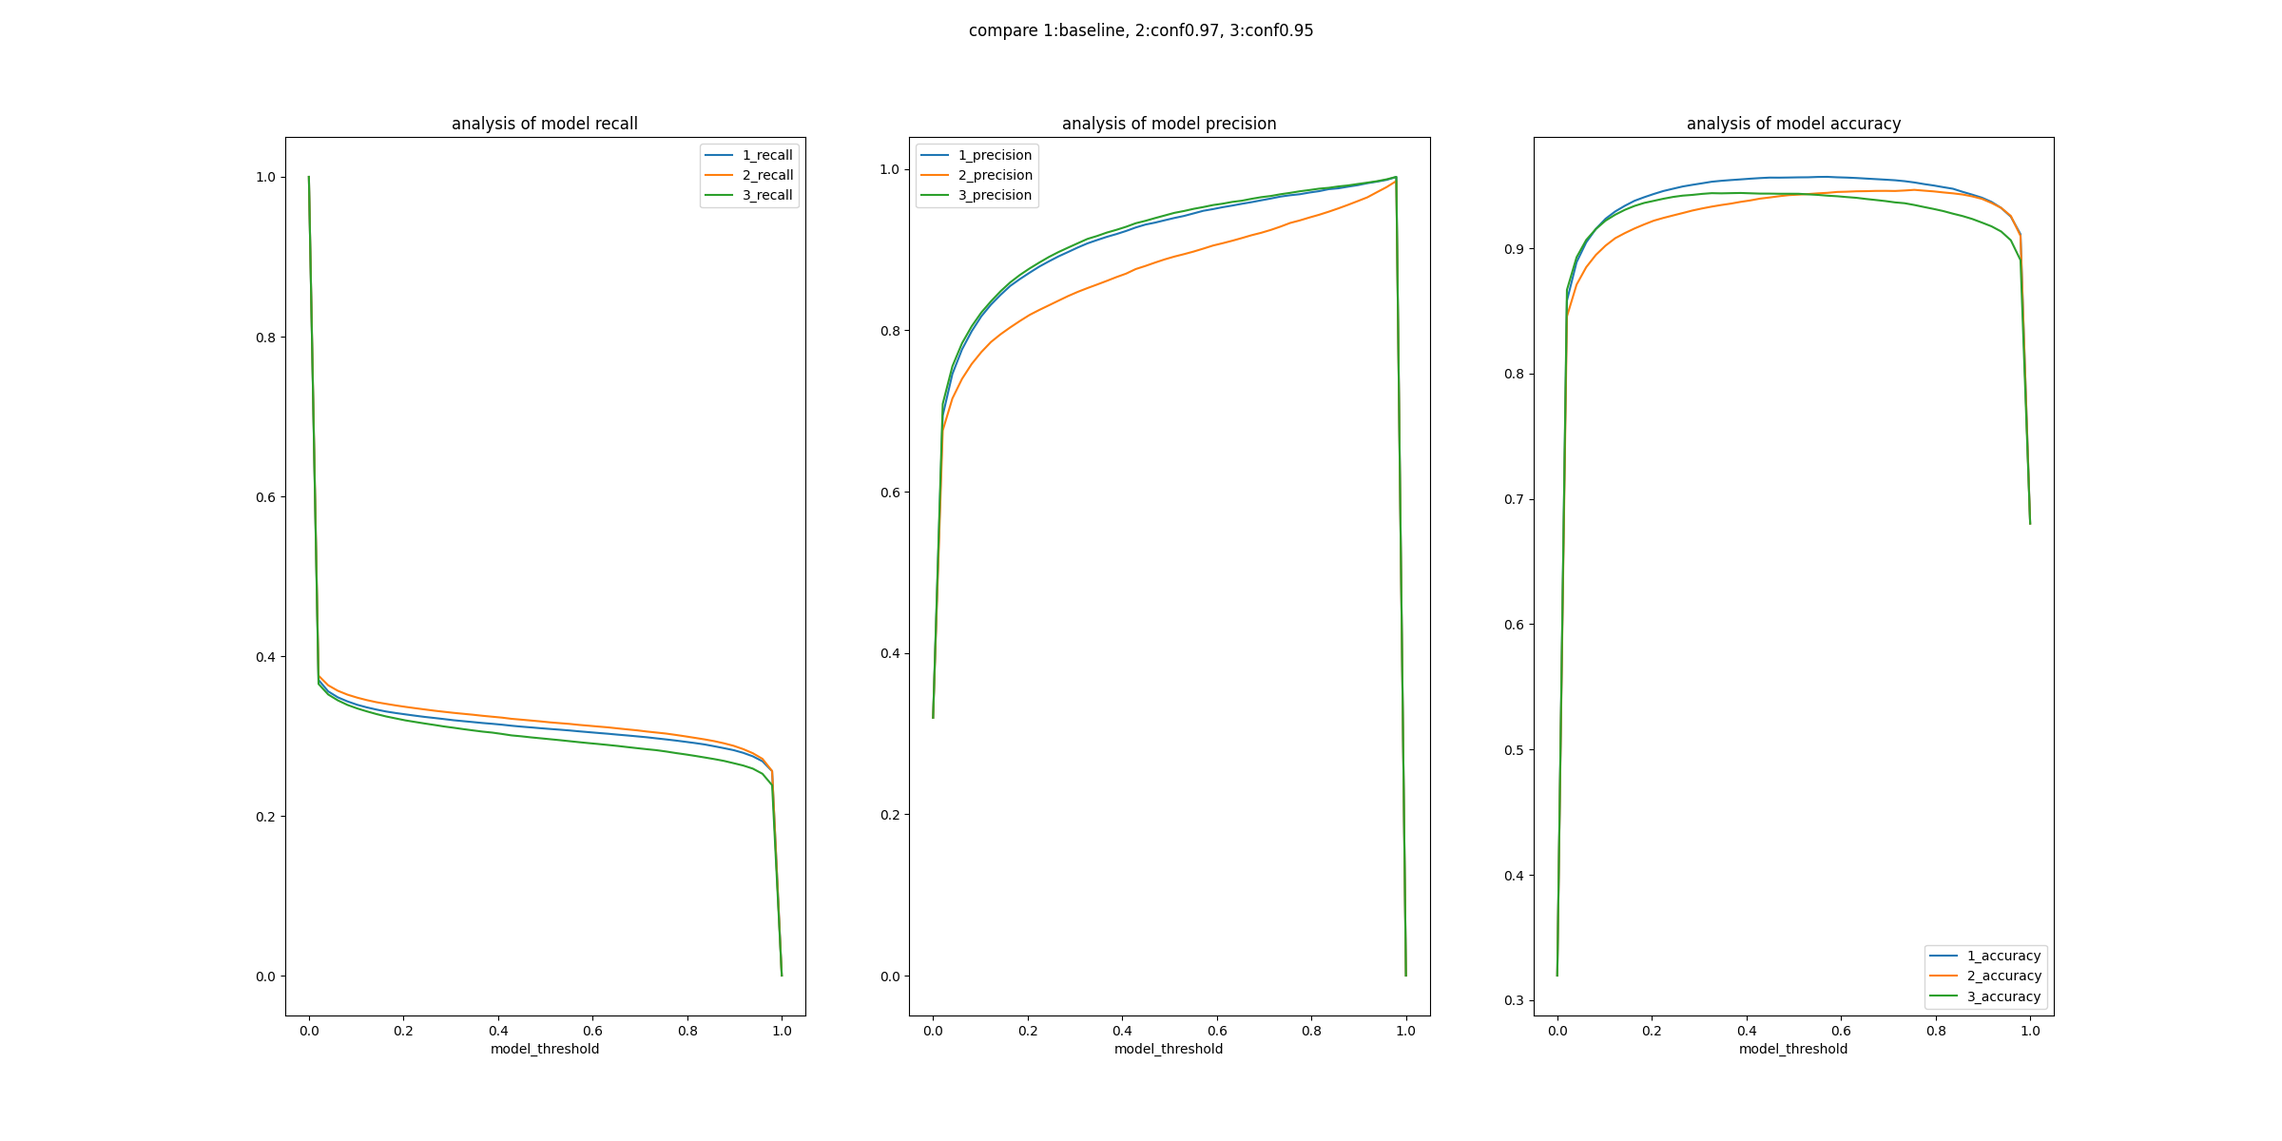
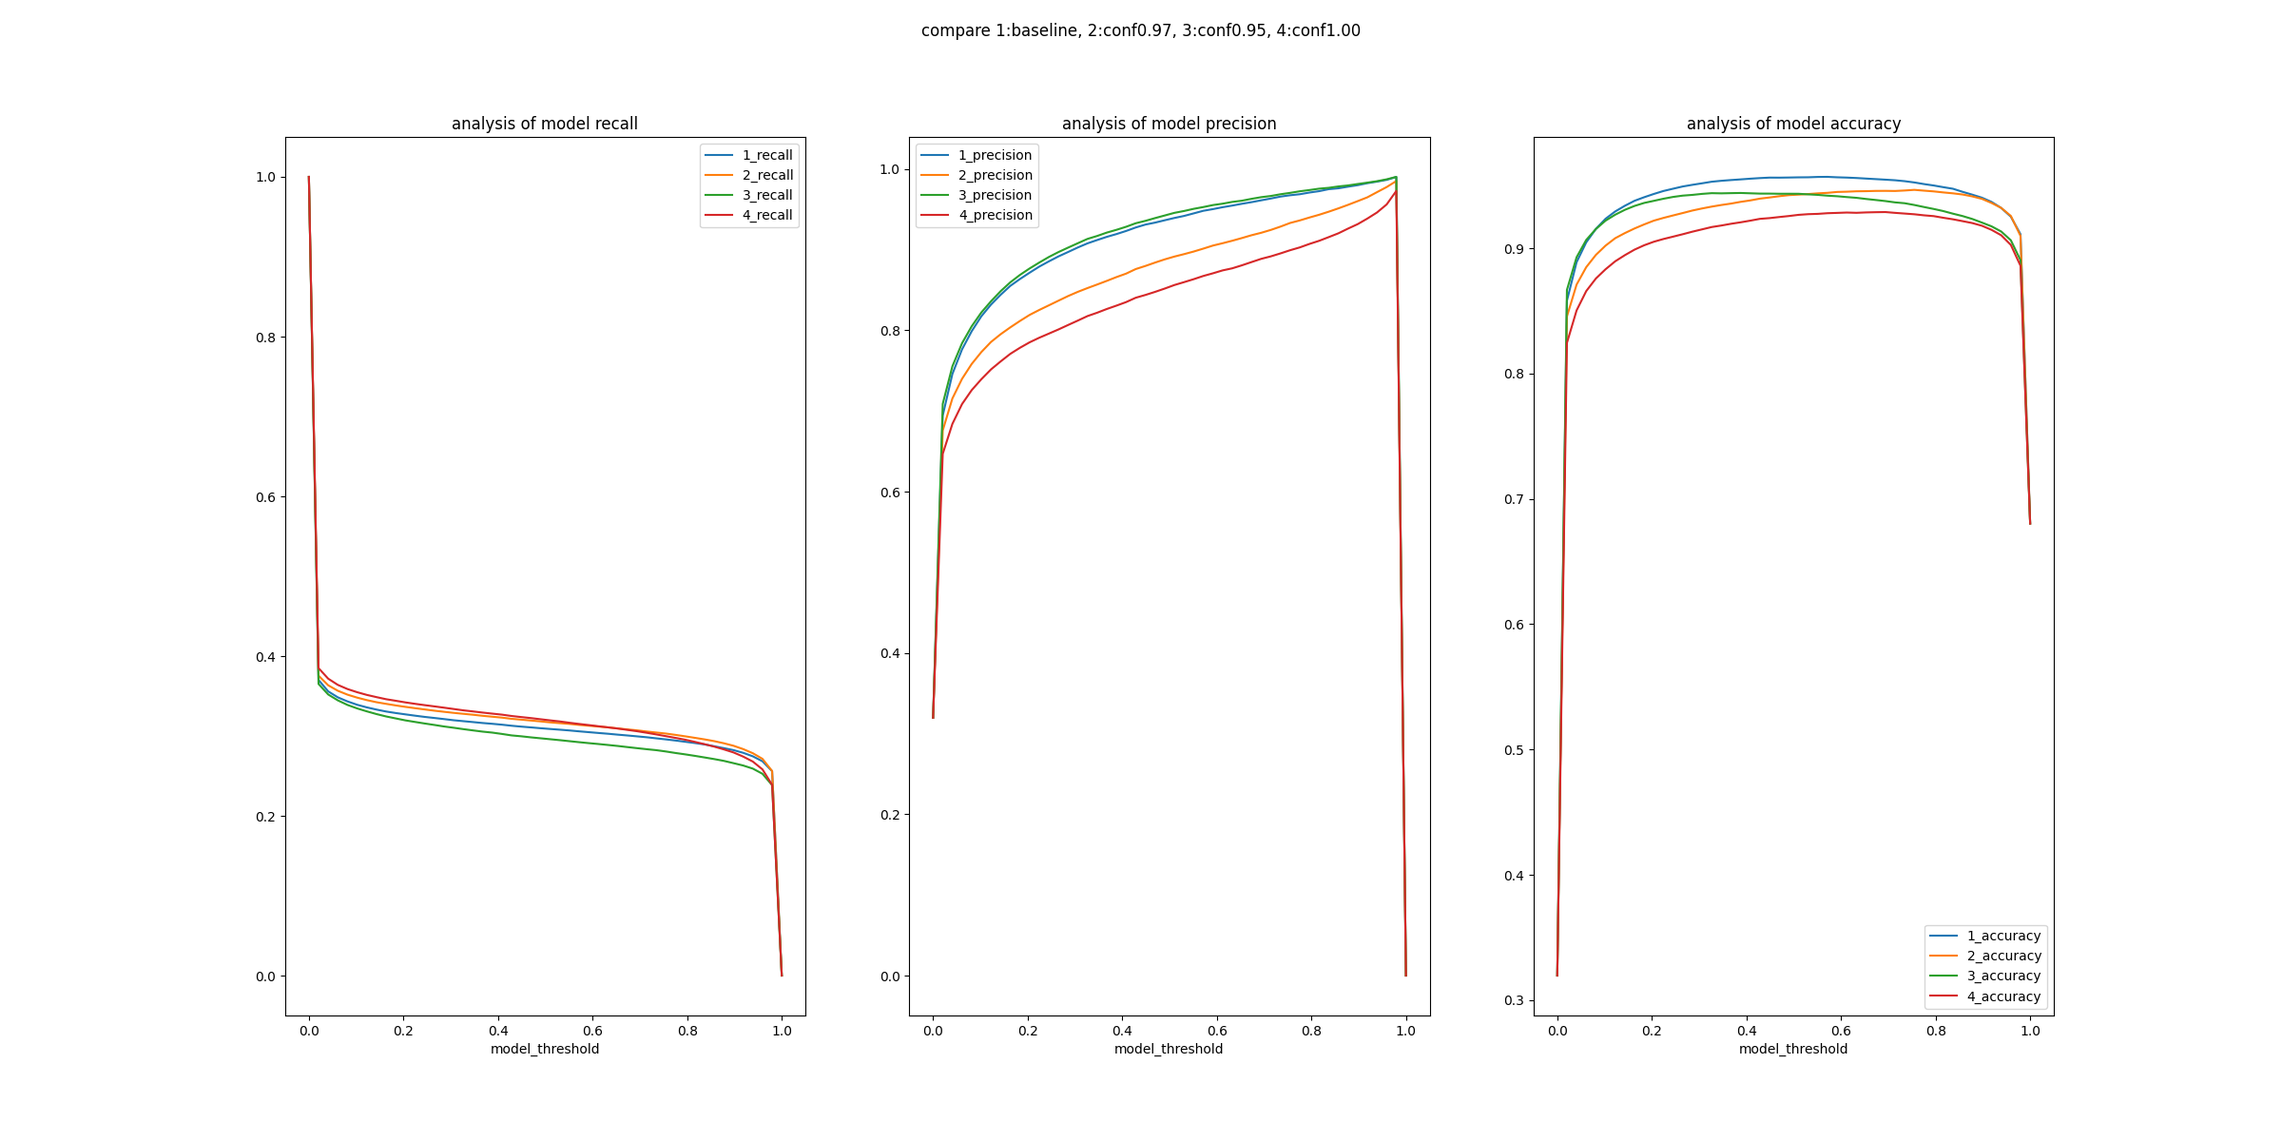
zzz Alienware update

diff --git a/Yolo_grasp_model/Data_collection/yolo_data_process.py b/Yolo_grasp_model/Data_collection/yolo_data_process.py
@@ -6,6 +6,14 @@ import shutil
 from itertools import combinations, permutations
 from tqdm import tqdm
 
+def change_sequence(pos_before):
+
+    origin_point = np.array([0, -0.2])
+    delete_index = np.where(pos_before == 0)[0]
+    distance = np.linalg.norm(pos_before[:, 1:3] - origin_point, axis=1)
+    order = np.argsort(distance)
+    return order
+
 def yolo_box(img, label):
     # label = [0,x,y,l,w],[0,x,y,l,w],...
     # label = label[:,1:]
@@ -263,113 +271,197 @@ def segmentation(data_root, target_path, start_num, end_num, show_flag=False):
     print('this is total_1', total_1)
     print('this is total_2', total_2)
 
-def manual_pose4keypoints(data_root, target_path):
-    os.makedirs(data_root, exist_ok=True)
-    os.makedirs(target_path, exist_ok=True)
-    os.makedirs(target_path + 'images/', exist_ok=True)
-    os.makedirs(target_path + 'labels/', exist_ok=True)
+def data_preprocess_mix(source_path_1, data_num_1, start_index_1, source_path_2, data_num_2, start_index_2,
+                        target_data_path=None, target_start_index=None, dropout_prob=None):
     mm2px = 530 / 0.34  # (1558)
-    img_index = input('Enter the index of img:')
-    img_index = int(img_index)
+    target_label_path = target_data_path + 'preprocess_labels/'
+    target_image_path = target_data_path + 'sim_images/'
+    os.makedirs(target_path, exist_ok=True)
 
-    cur_path = os.path.join(data_root, "images/%012d.png") % img_index
-    tar_path = os.path.join(target_path, "images/%012d.png") % img_index
-    shutil.copy(cur_path, tar_path)
+    ratio = data_num_1 / data_num_2
 
-    # num_item = input('Enter the num of boxes in one img:')
-    #
-    # data_total = []
-    # for i in range(int(num_item)):
-    #     data = input('Enter the xylwori of one img (five datas in total):').split(" ")
-    #     data_total.append(np.array([float(j) for j in data]))
-    # data_total = np.concatenate((np.zeros((len(data_total), 1)), np.asarray(data_total)), axis=1)
-    # data_total[:, 5] = data_total[:, 5] / 180 * np.pi
-    # print(data_total)
-    # np.savetxt(os.path.join(data_root, "labels/%012d.txt") % img_index, data_total, fmt='%.8s')
+    index_2 = start_index_2
+    output_index = start_index_1
+    for i in tqdm(range(start_index_1, data_num_1 + start_index_1)):
 
-    data_total = np.loadtxt(os.path.join(data_root, "labels/%012d.txt") % img_index)
-    data_total[:, 5] = data_total[:, 5] / 180 * np.pi
+        origin_label_1 = np.loadtxt(source_path_1 + "sim_labels/%012d.txt" % i)
+        origin_image_1 = cv2.imread(source_path_1 + "sim_images/%012d.png" % i)
+        corner_list = []
+        label_plot = []
+        label = []
 
-    corner_list = []
-    label_plot = []
-    label = []
-    total_1 = 0
-    total_2 = 0
-    for j in range(len(data_total)):
-        print(data_total[j])
-        # print('this is index if legos', j)
-        xpos1, ypos1 = data_total[j][1], data_total[j][2]
-        l, w = data_total[j][3], data_total[j][4]
-        yawori = data_total[j][5]
-        if l < w:
-            l = data_total[j][4]
-            w = data_total[j][3]
-            if yawori > np.pi / 2:
-                yawori = yawori - np.pi / 2
-            else:
-                yawori = yawori + np.pi / 2
+        print('this is index of images', i)
+        for j in range(len(origin_label_1)):
+            grasp_flag = origin_label_1[j][0]
+            xpos1, ypos1 = origin_label_1[j][1], origin_label_1[j][2]
+            l, w = origin_label_1[j][4], origin_label_1[j][5]
+            yawori = origin_label_1[j][9]
+            if l < w:
+                l = origin_label_1[j][5]
+                w = origin_label_1[j][4]
+                if yawori > np.pi / 2:
+                    yawori = yawori - np.pi / 2
+                else:
+                    yawori = yawori + np.pi / 2
 
-        # ensure the yolo sequence!
-        label_y = (xpos1 * mm2px + 6) / 480
-        label_x = (ypos1 * mm2px + 320) / 640
-        length = l * 3
-        width = w * 3
-        # ensure the yolo sequence!
-        keypoints, total_1, total_2 = find_keypoints(xpos1, ypos1, l, w, yawori, mm2px, total_1, total_2)
-        # keypoints_order = np.lexsort((keypoints[:, 0], keypoints[:, 1]))[::-1]
-        # keypoints = keypoints[keypoints_order]
+            # ensure the yolo sequence!
+            label_y = (xpos1 * mm2px + 6) / 480
+            label_x = (ypos1 * mm2px + 320) / 640
+            length = l * 3
+            width = w * 3
+            # ensure the yolo sequence!
+            keypoints, total_1, total_2 = find_keypoints(xpos1, ypos1, l, w, yawori, mm2px, total_1, total_2)
 
-        element = np.concatenate(([0], [label_x, label_y], [length, width], keypoints.reshape(-1)))
-        # print(label)
+            element = np.concatenate(([grasp_flag], [label_x, label_y], [length, width], keypoints.reshape(-1)))
+            # print(label)
 
-        corn1, corn2, corn3, corn4 = find_corner(xpos1, ypos1, l, w, yawori)
-        corner_list.append([corn1, corn2, corn3, corn4])
-        corns = corner_list[j]
+            corn1, corn2, corn3, corn4 = find_corner(xpos1, ypos1, l, w, yawori)
+            corner_list.append([corn1, corn2, corn3, corn4])
+            corns = corner_list[j]
 
-        col_offset = 320
-        # row_offset = (0.154 - (0.3112 - 0.154)) * mm2px + 5
-        row_offset = 0
+            col_offset = 320
+            row_offset = 0
 
-        col_list = np.array([mm2px * corns[0][1] + col_offset, mm2px * corns[3][1] + col_offset,
-                             mm2px * corns[1][1] + col_offset, mm2px * corns[2][1] + col_offset])
-        row_list = np.array([mm2px * corns[0][0] - row_offset, mm2px * corns[3][0] - row_offset,
-                             mm2px * corns[1][0] - row_offset, mm2px * corns[2][0] - row_offset])
+            col_list = np.array([mm2px * corns[0][1] + col_offset, mm2px * corns[3][1] + col_offset,
+                                 mm2px * corns[1][1] + col_offset, mm2px * corns[2][1] + col_offset])
+            row_list = np.array([mm2px * corns[0][0] - row_offset, mm2px * corns[3][0] - row_offset,
+                                 mm2px * corns[1][0] - row_offset, mm2px * corns[2][0] - row_offset])
 
-        col_list = np.sort(col_list)
-        row_list = np.sort(row_list)
-        col_list[3] = col_list[3]
-        col_list[0] = col_list[0]
-        row_list[3] = row_list[3]
-        row_list[0] = row_list[0]
+            col_list = np.sort(col_list)
+            row_list = np.sort(row_list)
+            col_list[3] = col_list[3] + 10
+            col_list[0] = col_list[0] - 10
+            row_list[3] = row_list[3] + 10
+            row_list[0] = row_list[0] - 10
 
-        label_x_plot = ((col_list[0] + col_list[3]) / 2) / 640
-        label_y_plot = (((row_list[0] + row_list[3]) / 2) + 6) / 480
-        label_y = (xpos1 * mm2px + 6) / 480
-        label_x = (ypos1 * mm2px + 320) / 640
+            label_x_plot = ((col_list[0] + col_list[3]) / 2) / 640
+            label_y_plot = (((row_list[0] + row_list[3]) / 2) + 6) / 480
+            label_y = (xpos1 * mm2px + 6) / 480
+            label_x = (ypos1 * mm2px + 320) / 640
 
-        length_plot = (col_list[3] - col_list[0]) / 640
-        width_plot = (row_list[3] - row_list[0]) / 480
-        element_plot = []
-        element_plot.append(0)
-        element_plot.append(label_x_plot)
-        element_plot.append(label_y_plot)
-        element_plot.append(length_plot)
-        element_plot.append(width_plot)
-        element_plot = np.asarray(element_plot)
-        label_plot.append(element_plot)
+            length_plot = (col_list[3] - col_list[0]) / 640
+            width_plot = (row_list[3] - row_list[0]) / 480
+            element_plot = []
+            element_plot.append(0)
+            element_plot.append(label_x_plot)
+            element_plot.append(label_y_plot)
+            element_plot.append(length_plot)
+            element_plot.append(width_plot)
+            element_plot = np.asarray(element_plot)
+            label_plot.append(element_plot)
 
-        # change the lw to yolo_lw in label!!!!!!
-        element[3] = length_plot
-        element[4] = width_plot
-        label.append(element)
+            # change the lw to yolo_lw in label!!!!!!
+            element[3] = length_plot
+            element[4] = width_plot
+            label.append(element)
 
-    label = np.asarray(label)
-    print('this is element\n', label)
-    # print('this is plot element\n', label_plot)
-    img = cv2.imread(os.path.join(data_root, "images/%012d.png") % img_index)
-    img = yolo_box(img, label_plot)
+        label = np.asarray(label)
 
-    np.savetxt(os.path.join(target_path, "labels/%012d.txt") % img_index, label, fmt='%.8s')
+        np.savetxt(target_label_path + "%012d.txt" % output_index, label, fmt='%.8s')
+        cv2.imwrite(target_image_path + '%012d.png' % output_index, origin_image_1)
+        output_index += 1
+
+        # origin_data_1 = np.loadtxt(source_path_1 + '%012d.txt' % i).reshape(-1, 11)
+        # data_1 = np.delete(origin_data_1, [3, 6, 7, 8], axis=1)
+        #
+        # temp_index = np.where(data_1[:, -2] < 0)[0]
+        # data_1[temp_index, -2] += np.pi
+        # order_1 = change_sequence(data_1)
+        # data_1 = data_1[order_1]
+        #
+        # np.savetxt(target_path + '%012d.txt' % (output_index), data_1, fmt='%.04f')
+        # output_index += 1
+
+        if i % ratio == 0:
+
+            origin_label_2 = np.loadtxt(source_path_2 + "sim_labels/%012d.txt" % index_2)
+            origin_image_2 = cv2.imread(source_path_2 + "sim_images/%012d.png" % index_2)
+            corner_list = []
+            label_plot = []
+            label = []
+
+            print('this is index of images', i)
+            for j in range(len(origin_label_2)):
+                grasp_flag = origin_label_2[j][0]
+                xpos2, ypos2 = origin_label_2[j][1], origin_label_2[j][2]
+                l, w = origin_label_2[j][4], origin_label_2[j][5]
+                yawori = origin_label_2[j][9]
+                if l < w:
+                    l = origin_label_2[j][5]
+                    w = origin_label_2[j][4]
+                    if yawori > np.pi / 2:
+                        yawori = yawori - np.pi / 2
+                    else:
+                        yawori = yawori + np.pi / 2
+
+                # ensure the yolo sequence!
+                label_y = (xpos2 * mm2px + 6) / 480
+                label_x = (ypos2 * mm2px + 320) / 640
+                length = l * 3
+                width = w * 3
+                # ensure the yolo sequence!
+                keypoints, total_1, total_2 = find_keypoints(xpos2, ypos2, l, w, yawori, mm2px, total_1, total_2)
+
+                element = np.concatenate(([grasp_flag], [label_x, label_y], [length, width], keypoints.reshape(-1)))
+                # print(label)
+
+                corn1, corn2, corn3, corn4 = find_corner(xpos2, ypos2, l, w, yawori)
+                corner_list.append([corn1, corn2, corn3, corn4])
+                corns = corner_list[j]
+
+                col_offset = 320
+                row_offset = 0
+
+                col_list = np.array([mm2px * corns[0][1] + col_offset, mm2px * corns[3][1] + col_offset,
+                                     mm2px * corns[1][1] + col_offset, mm2px * corns[2][1] + col_offset])
+                row_list = np.array([mm2px * corns[0][0] - row_offset, mm2px * corns[3][0] - row_offset,
+                                     mm2px * corns[1][0] - row_offset, mm2px * corns[2][0] - row_offset])
+
+                col_list = np.sort(col_list)
+                row_list = np.sort(row_list)
+                col_list[3] = col_list[3] + 10
+                col_list[0] = col_list[0] - 10
+                row_list[3] = row_list[3] + 10
+                row_list[0] = row_list[0] - 10
+
+                label_x_plot = ((col_list[0] + col_list[3]) / 2) / 640
+                label_y_plot = (((row_list[0] + row_list[3]) / 2) + 6) / 480
+                label_y = (xpos2 * mm2px + 6) / 480
+                label_x = (ypos2 * mm2px + 320) / 640
+
+                length_plot = (col_list[3] - col_list[0]) / 640
+                width_plot = (row_list[3] - row_list[0]) / 480
+                element_plot = []
+                element_plot.append(0)
+                element_plot.append(label_x_plot)
+                element_plot.append(label_y_plot)
+                element_plot.append(length_plot)
+                element_plot.append(width_plot)
+                element_plot = np.asarray(element_plot)
+                label_plot.append(element_plot)
+
+                # change the lw to yolo_lw in label!!!!!!
+                element[3] = length_plot
+                element[4] = width_plot
+                label.append(element)
+
+            label = np.asarray(label)
+
+            np.savetxt(target_label_path + "%012d.txt" % output_index, label, fmt='%.8s')
+            cv2.imwrite(target_image_path + '%012d.png' % output_index, origin_image_2)
+            output_index += 1
+            index_2 += 1
+
+            # origin_data_2 = np.loadtxt(source_path_2 + '%012d.txt' % index_2).reshape(-1, 11)
+            # data_2 = np.delete(origin_data_2, [3, 6, 7, 8], axis=1)
+            #
+            # temp_index = np.where(data_2[:, -2] < 0)[0]
+            # data_2[temp_index, -2] += np.pi
+            # order_2 = change_sequence(data_2)
+            # data_2 = data_2[order_2]
+            # np.savetxt(target_path + '%012d.txt' % (output_index), data_2, fmt='%.04f')
+            # index_2 += 1
+            # output_index += 1
 
 def train_test_split(data_root, target_path, start_num, end_num):
 
@@ -423,3 +515,14 @@ if __name__ == '__main__':
     # target_path = '../../../knolling_dataset/yolo_pile_830_real_box/'
     #
     train_test_split(data_root, target_path, start_num, end_num)
+
+    source_path_1 = '../../../knolling_dataset/grasp_dataset_914_crowded_lab/'
+    source_path_2 = '../../../knolling_dataset/grasp_dataset_914_sparse_lab/'
+    num_1 = 300000
+    num_2 = 150000
+    start_index_1 = 0
+    start_index_2 = 0
+    target_data_path = '../../../knolling_dataset/grasp_dataset_914/'
+    target_start_index = 0
+    data_preprocess_mix(source_path_1, num_1, start_index_1, source_path_2, num_2, start_index_2,
+                        target_data_path, target_start_index, dropout_prob=None)

diff --git a/Grasp_pred_model/compare_evaluate_data.py b/Grasp_pred_model/compare_evaluate_data.py
@@ -6,6 +6,7 @@ PATH = '../models/LSTM_918_0/'
 data_1_baseline = np.loadtxt(PATH + 'model_data_labels_1.txt')
 data_2_conf097 = np.loadtxt(PATH + 'model_data_labels_2.txt')
 data_3_conf095 = np.loadtxt(PATH + 'model_data_labels_3.txt')
+data_4_conf100 = np.loadtxt(PATH + 'model_data_labels_4.txt')
 model_threshold = data_1_baseline[:, 0]
 
 plt.figure(figsize=(24, 12))
@@ -13,6 +14,7 @@ plt.subplot(1, 3, 1)
 plt.plot(model_threshold, data_1_baseline[:, 1], label='1_recall')
 plt.plot(model_threshold, data_2_conf097[:, 1], label='2_recall')
 plt.plot(model_threshold, data_3_conf095[:, 1], label='3_recall')
+plt.plot(model_threshold, data_4_conf100[:, 1], label='4_recall')
 plt.xlabel('model_threshold')
 plt.title('analysis of model recall')
 plt.legend()
@@ -21,6 +23,7 @@ plt.subplot(1, 3, 2)
 plt.plot(model_threshold, data_1_baseline[:, 2], label='1_precision')
 plt.plot(model_threshold, data_2_conf097[:, 2], label='2_precision')
 plt.plot(model_threshold, data_3_conf095[:, 2], label='3_precision')
+plt.plot(model_threshold, data_4_conf100[:, 2], label='4_precision')
 plt.xlabel('model_threshold')
 plt.title('analysis of model precision')
 plt.legend()
@@ -29,10 +32,11 @@ plt.subplot(1, 3, 3)
 plt.plot(model_threshold, data_1_baseline[:, 3], label='1_accuracy')
 plt.plot(model_threshold, data_2_conf097[:, 3], label='2_accuracy')
 plt.plot(model_threshold, data_3_conf095[:, 3], label='3_accuracy')
+plt.plot(model_threshold, data_4_conf100[:, 3], label='4_accuracy')
 plt.xlabel('model_threshold')
 plt.title('analysis of model accuracy')
 plt.legend()
-plt.suptitle('compare 1:baseline, 2:conf0.97, 3:conf0.95')
+plt.suptitle('compare 1:baseline, 2:conf0.97, 3:conf0.95, 4:conf1.00')
 
 plt.savefig(PATH + 'compare.png')
 plt.show()

diff --git a/Grasp_pred_model/test_lstm.py b/Grasp_pred_model/test_lstm.py
@@ -48,7 +48,7 @@ if __name__ == '__main__':
         ratio = para_dict['ratio']
         box_one_img = para_dict['box_one_img']
         data_path = para_dict['data_path']
-        box_test, grasp_test = data_split(data_path, num_img, ratio, box_one_img, test_model=True, valid_num=valid_num, set_conf=0.95)
+        box_test, grasp_test = data_split(data_path, num_img, ratio, box_one_img, test_model=True, valid_num=valid_num, set_conf=1)
 
         # create the train dataset and test dataset
         batch_size = para_dict['batch_size']
@@ -194,15 +194,15 @@ if __name__ == '__main__':
         plt.xlabel('model_threshold')
         plt.title('analysis of model prediction')
         plt.legend()
-        plt.savefig(para_dict['model_path'] + 'model_pred_analysis_labels_3.png')
+        plt.savefig(para_dict['model_path'] + 'model_pred_analysis_labels_4.png')
         plt.show()
 
-        np.savetxt(para_dict['model_path'] + 'model_loss_labels_3.txt', model_loss)
+        np.savetxt(para_dict['model_path'] + 'model_loss_labels_4.txt', model_loss)
 
         total_evaluate_data = np.concatenate(([model_threshold], [model_pred_recall], [model_pred_precision], [model_pred_accuracy]), axis=0).T
-        np.savetxt(para_dict['model_path'] + 'model_data_labels_3.txt', total_evaluate_data)
+        np.savetxt(para_dict['model_path'] + 'model_data_labels_4.txt', total_evaluate_data)
 
-        with open(para_dict['model_path'] + "model_pred_anlysis_labels_3.txt", "w") as f:
+        with open(para_dict['model_path'] + "model_pred_anlysis_labels_4.txt", "w") as f:
             f.write('----------- Dataset -----------\n')
             f.write(f'valid_num: {valid_num}\n')
             f.write(f'tar_true: {tar_true}\n')

diff --git a/main_demo.py b/main_demo.py
@@ -543,6 +543,7 @@ if __name__ == '__main__':
                  'yolo_model_path': './models/627_pile_pose/weights/best.pt',
                  'real_operate': True, 'obs_order': 'real_image_obj', 'data_collection': False,
                  'use_knolling_model': True, 'use_lstm_model': True, 'use_yolo_model': True}
+
     if para_dict['real_operate'] == False:
         para_dict['yolo_model_path'] = './models/627_pile_pose/weights/best.pt'
     else:
